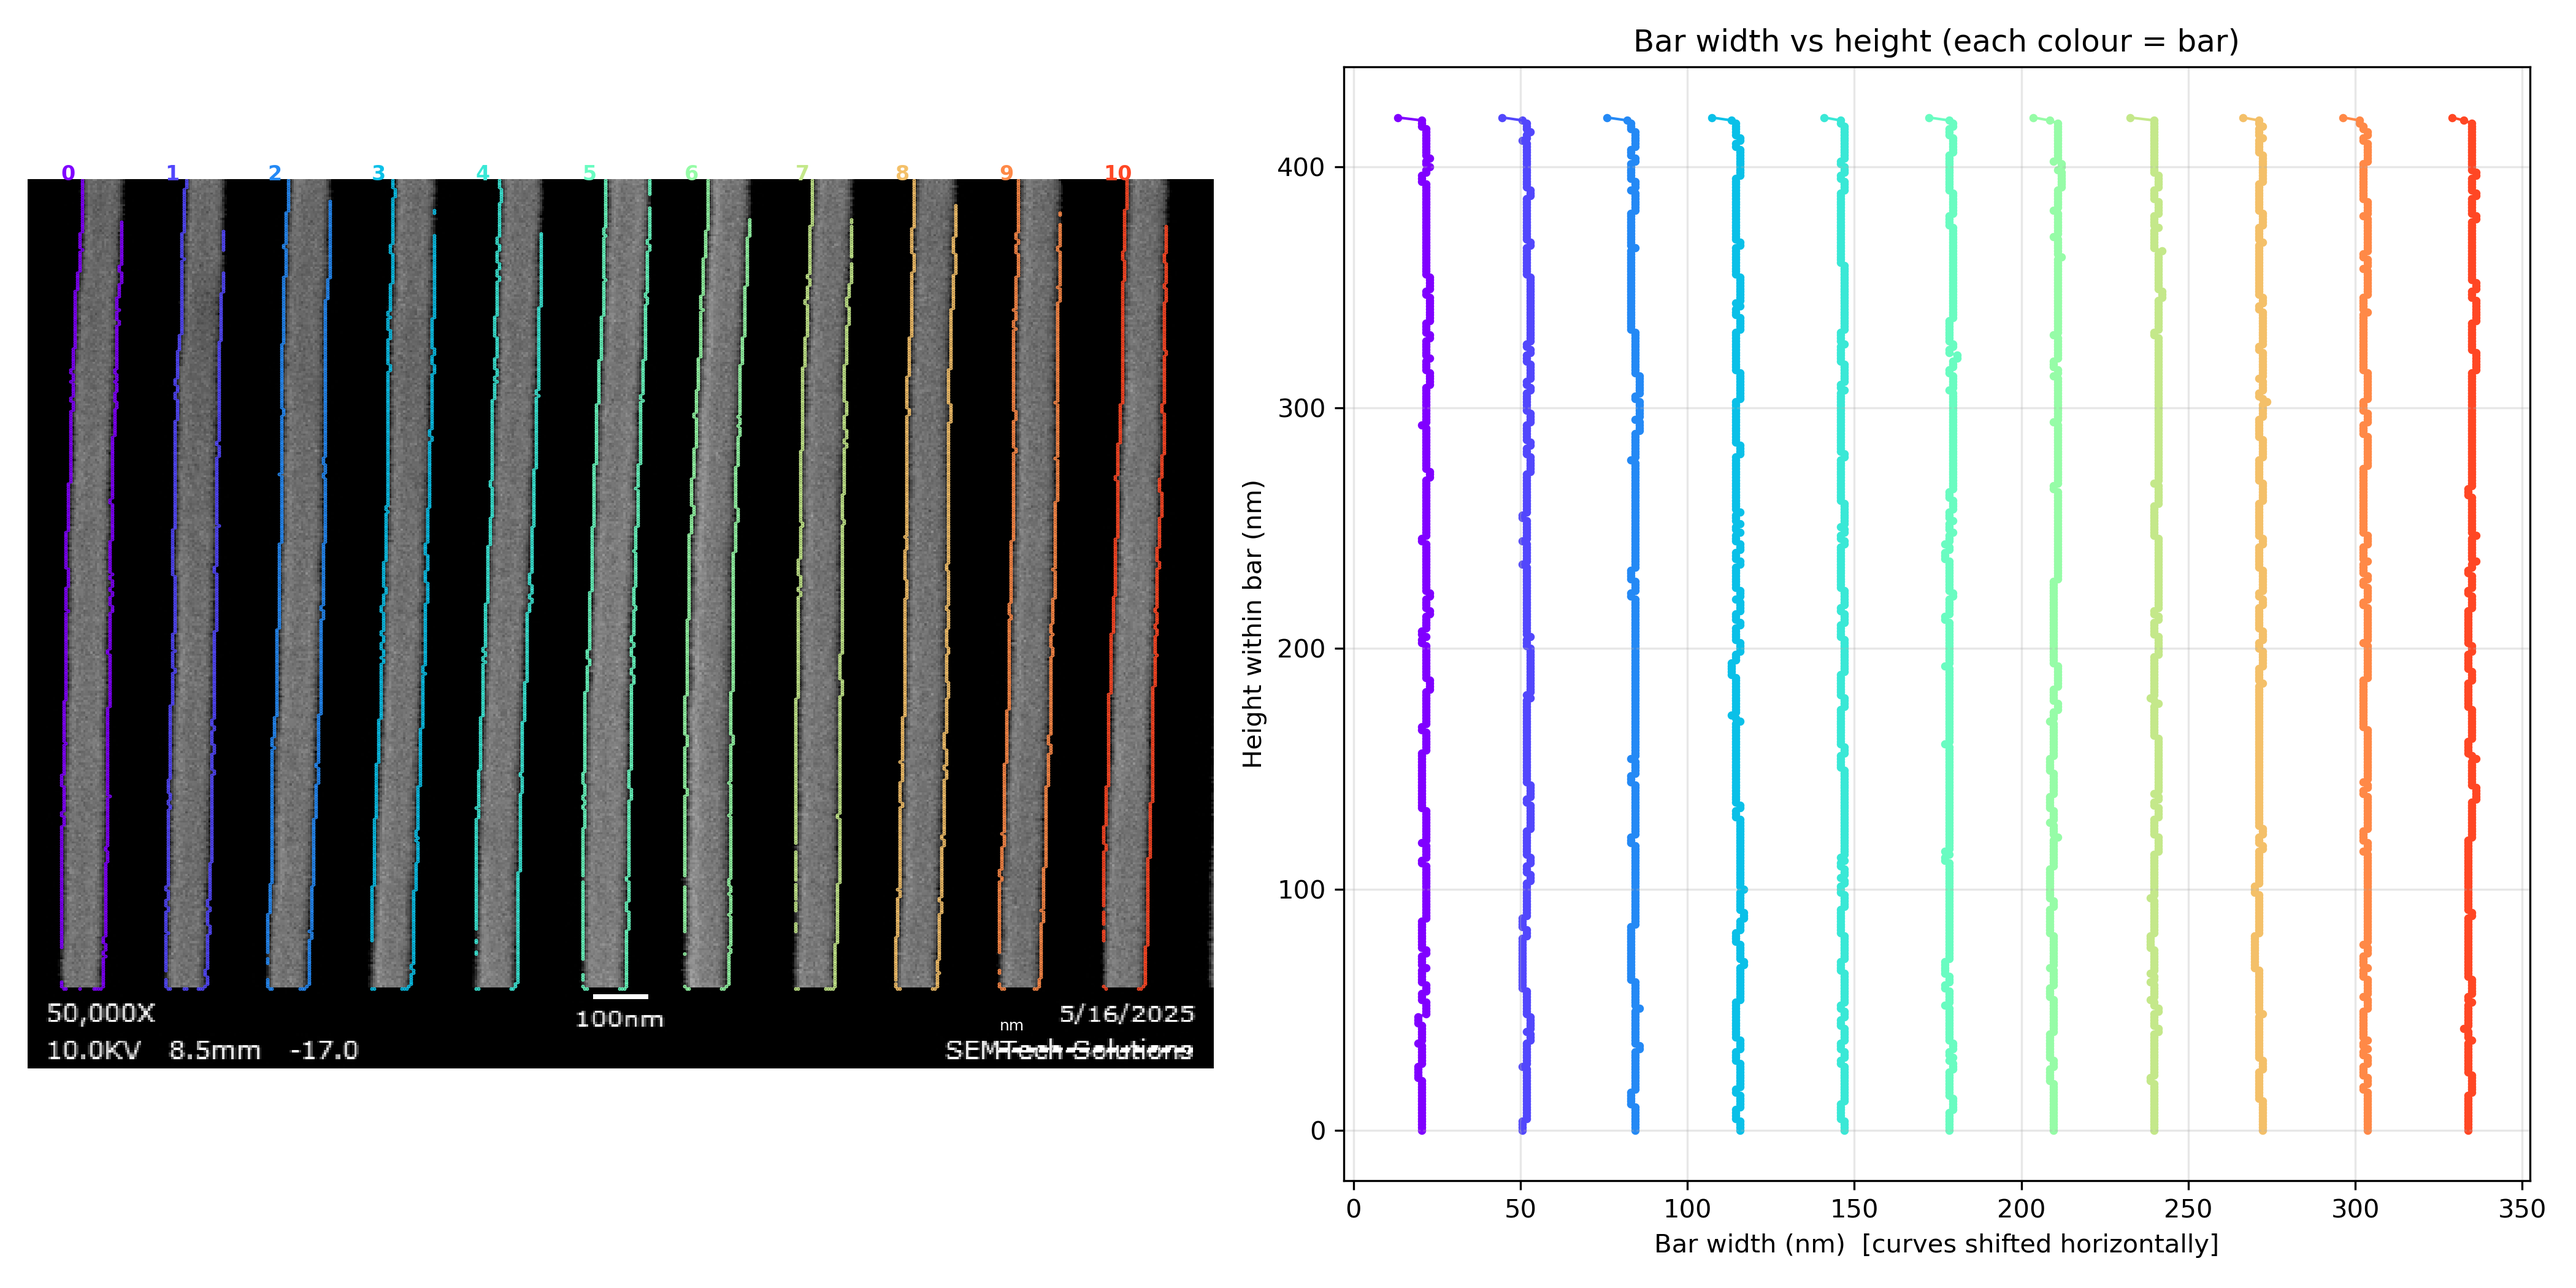
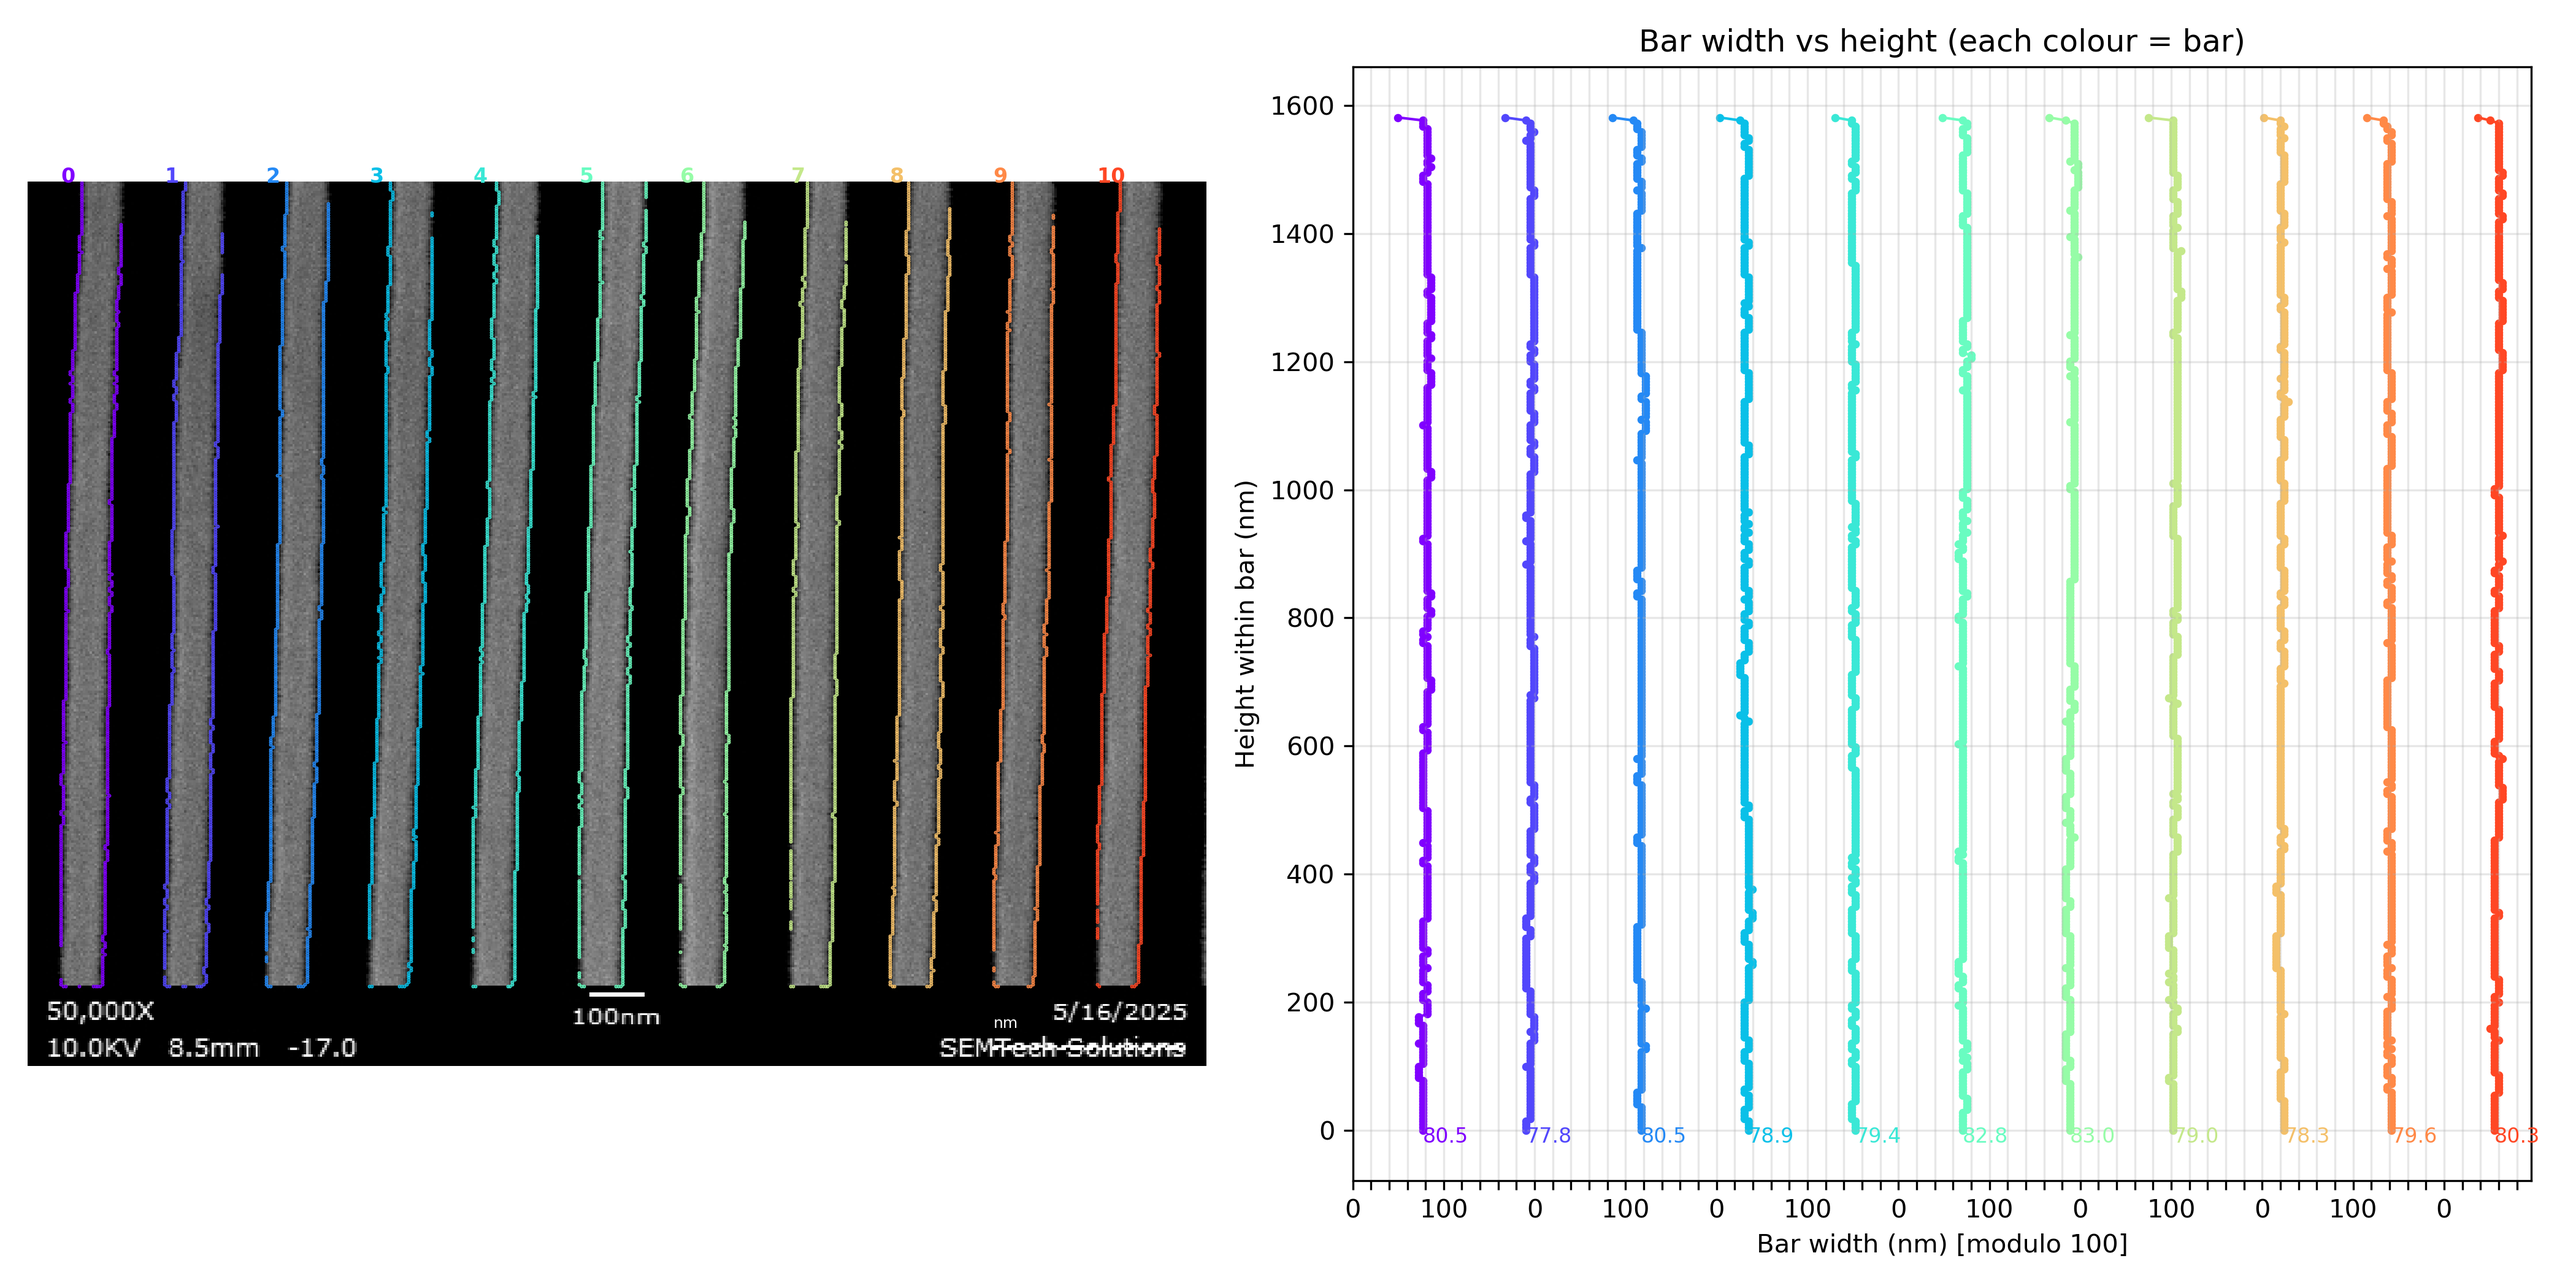
Updated pixels to nanometers conversion

diff --git a/src/utils.py b/src/utils.py
@@ -6,6 +6,7 @@ from skimage.morphology import remove_small_objects, closing, square
 from skimage.segmentation import find_boundaries
 from pathlib import Path
 from typing import List, Tuple
+from matplotlib.ticker import FuncFormatter, MultipleLocator
 
 
 def read_image(path: str) -> np.ndarray:
@@ -225,7 +226,8 @@ def plot_results(img: np.ndarray, bins_mask: np.ndarray, bars: List[Tuple[int, i
 
     The left pane shows the SEM image with **edge traces** (not bounding boxes)
     of each bar coloured uniquely. The right pane plots width (x-axis) versus
-    height (y-axis) for every bar, horizontally shifted so curves don't overlap.
+    height (y-axis) for every bar, using a modulo 100 approach to show all bars
+    on the same scale without horizontal shifts.
     """
     cmap = plt.get_cmap('rainbow')
     n_bars = len(bars)
@@ -258,10 +260,11 @@ def plot_results(img: np.ndarray, bins_mask: np.ndarray, bars: List[Tuple[int, i
         ax_img.add_patch(rect_sb)
         ax_img.text(x_sb, y_sb - 8, f'{units}', color='white', fontsize=6)
 
-    # ---------- WIDTH vs HEIGHT PLOT ----------
-    # Determine shift so curves don't overlap too much
+    # ---------- WIDTH vs HEIGHT PLOT (with offset, labels modulo 100) ----------
+    # Determine a horizontal shift for each successive bar so curves are separated
     max_width = max((w.max() if w.size else 0 for _, w in bar_measurements), default=10)
-    x_shift_unit = max_width * 1.3  # 30% padding
+    # Add 30 % padding so neighbouring bars don't collide
+    x_shift_unit = max(100, max_width * 1.3)
 
     for idx, ((ys_rel, widths), color) in enumerate(zip(bar_measurements, colors)):
         if widths.size == 0:
@@ -270,10 +273,33 @@ def plot_results(img: np.ndarray, bins_mask: np.ndarray, bars: List[Tuple[int, i
         ax_plot.plot(x_vals, ys_rel, '-', color=color, lw=1)
         ax_plot.scatter(x_vals, ys_rel, color=color, s=5)
 
-    ax_plot.set_xlabel(f'Bar width ({units})  [curves shifted horizontally]')
+        # Add text annotation with the mean actual width (nm or px) near curve top
+        if len(ys_rel):
+            top_y = ys_rel.min()
+            avg_w = np.mean(widths)
+            ax_plot.text(x_vals[0], top_y - 20, f"{avg_w:.1f}", color=color, fontsize=8)
+
+    # Make x-axis labels repeat 0-100 by formatting tick labels modulo 100
+    ax_plot.set_xlabel(f'Bar width ({units}) [modulo 100]')
     ax_plot.set_ylabel(f'Height within bar ({units})')
     ax_plot.set_title('Bar width vs height (each colour = bar)')
     ax_plot.grid(True, alpha=0.3)
+
+    # If there are N bars we expect x range up to N*x_shift_unit + 100
+    ax_plot.set_xlim(0, n_bars * x_shift_unit)
+
+    # Tick locator every 20 units but labels shown modulo 100
+    ax_plot.xaxis.set_major_locator(MultipleLocator(20))
+    # Alternate between 0 and 100 for multiples of 100
+    def alt_format(val, pos):
+        if val % 100 != 0:  # Not a multiple of 100, no label
+            return ""
+        # Check if it's an even or odd multiple of 100
+        if (val // 100) % 2 == 0:
+            return "0"
+        else:
+            return "100"
+    ax_plot.xaxis.set_major_formatter(FuncFormatter(alt_format))
 
     fig.tight_layout()
     out_path.parent.mkdir(parents=True, exist_ok=True)

diff --git a/src/analyze_barwidth.py b/src/analyze_barwidth.py
@@ -79,11 +79,27 @@ def analyze_image(img_path: Path, out_dir: Path, debug: bool = False, smooth: in
     # Detect scale bar to convert pixels -> nm
     # --------------------------------------------------
     nm_per_px, sb_bbox = detect_scale_bar(img)
+    
+    # Calculate average bar width in pixels
+    avg_bar_width_px = np.mean([np.mean(widths) for _, widths in bar_measurements_px])
+    
     if debug:
         if np.isfinite(nm_per_px):
             print(f"Detected scale bar: 1px = {nm_per_px:.3f} nm")
+            print(f"Average bar width: {avg_bar_width_px:.1f} px = {avg_bar_width_px * nm_per_px:.1f} nm")
         else:
             print("Scale bar not detected – keeping pixel units.")
+    
+    # If detected width is significantly different from expected 80nm,
+    # adjust the scale factor (assuming bars should be ~80nm wide)
+    expected_bar_width_nm = 80.0
+    if np.isfinite(nm_per_px):
+        detected_bar_width_nm = avg_bar_width_px * nm_per_px
+        if abs(detected_bar_width_nm - expected_bar_width_nm) > 20:  # If off by more than 20nm
+            adjusted_nm_per_px = expected_bar_width_nm / avg_bar_width_px
+            if debug:
+                print(f"Adjusting scale: 1px = {adjusted_nm_per_px:.3f} nm (based on expected bar width of ~80nm)")
+            nm_per_px = adjusted_nm_per_px
 
     if np.isfinite(nm_per_px):
         units = 'nm'

diff --git a/README.md b/README.md
@@ -2,6 +2,9 @@
 
 Automatically extracts vertical CAT-grating bar widths from top-down SEM images (both *zoomed* and *un-zoomed*) and visualises how each bar's width varies with height.
 
+![CAT-Grating Bar Width Analysis Example](outputs/PostKOH_Center_Frontside_analysis.png)
+*Example output showing traced bar edges (left) and width-vs-height curves with modulo 100 x-axis (right)*
+
 ---
 ## 1. Quick start
 
@@ -44,7 +47,9 @@ The output `outputs/PostKOH_Center_Frontside_analysis.png` contains:
 2. **Right pane** – width-vs-height curves
    * x-axis = bar width (nm if scale-bar detected, otherwise px)
    * y-axis = height within bar, starting at bar bottom
-   * curves are horizontally offset so they don't overlap but still share the same x-scale.
+   * curves are horizontally offset so they don't overlap
+   * x-axis labels repeat in a modulo 100 pattern (alternating 0 and 100)
+   * actual width values (nm/px) are shown at the top of each curve
 
 ---
 ## 2. Intuitive algorithm overview
@@ -71,7 +76,7 @@ The output `outputs/PostKOH_Center_Frontside_analysis.png` contains:
 | Edge extraction | `find_boundaries(mask, mode="outer")` | — |
 | Width vs height | Scan-line loop, record min/max x | see `measure_widths()` |
 | Smoothing | 1-D moving average | window `k = --smooth` |
-| Scale-bar | CC heuristic → Hough fallback | assumes "100 nm" (edit in `detect_scale_bar`) |
+| Scale-bar | CC heuristic → Hough fallback | 1) Uses scale bar marked "100 nm" 2) Auto-adjusts if detected width differs from expected 80nm |
 
 ---
 ## 4. Handling bar **yaw (rotation)**
@@ -82,8 +87,9 @@ The script assumes bars are roughly vertical; small yaw (≤ a few degrees) simp
 ## 5. Customisation pointers
 
 * **Parameters** – tweak thresholds and morphology constants in `src/utils.py`.
-* **Scale value** – change the physical length of the reference bar (`nm_value` argument in `detect_scale_bar`).
+* **Scale value** – adjust the reference bar value (`nm_value` in `detect_scale_bar`) or the expected bar width (`expected_bar_width_nm` in `analyze_image`).
 * **Different smoothing** – swap the moving-average in `analyze_barwidth.py` with a Savitzky–Golay filter, spline, etc.
+* **Plot formatting** – modify the tick spacing, label format, or x-axis limits in `plot_results`.
 
 ---
 Happy analysing!  Open issues or PRs are welcome. 
